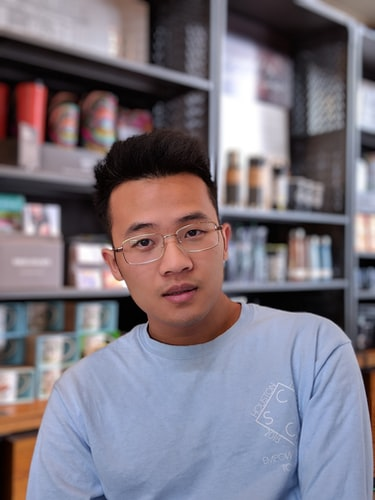
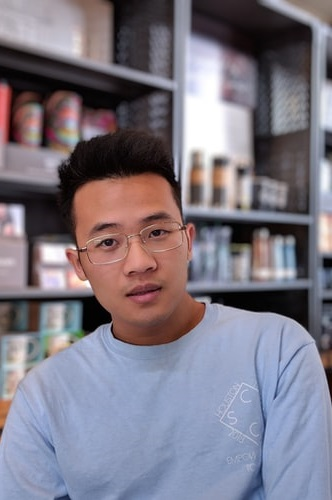
teamInformation photos size updated

diff --git a/src/components/SmallParts/TeamInformationCard/teamInformationCard.js b/src/components/SmallParts/TeamInformationCard/teamInformationCard.js
@@ -28,9 +28,9 @@ import './teamInformationCard.scss';
 * Images
 */
 
-import Photo1 from '../../../images/teamPhotos/brian-lundquist-VwU6dbcwn-E-unsplash.jpg';
+import Photo1 from '../../../images/teamPhotos/marcos-paulo-prado-Ur_QOF3mLyA-unsplash.jpg';
 import Photo2 from '../../../images/teamPhotos/christina-wocintechchat-com-CtL3eP9ENyA-unsplash.jpg';
-import Photo3 from '../../../images/teamPhotos/jake-nackos-IF9TK5Uy-KI-unsplash.jpg';
+import Photo3 from '../../../images/teamPhotos/vinicius-wiesehofer-LS1e59caoNM-unsplash.jpg';
 import Photo4 from '../../../images/teamPhotos/photo-1540569014015-19a7be504e3a.jpg';
 import Photo5 from '../../../images/teamPhotos/zoe-fernandez--zqoE7jnQgw-unsplash.jpg';
 
@@ -56,16 +56,33 @@ export const TeamInformationCard = (props) => {
     * Methods
     */
 
-    const handleMouseEnter = () => {
-        setIsHovering(true);
-    }
+    // const handleMouseEnter = () => {
+    //     setIsHovering(true);
+    // }
 
-    const handleMouseLeave = () => {
-        setIsHovering(false);
-    }
+    // const handleMouseLeave = () => {
+    //     setIsHovering(false);
+    // }
 
-    const arrowOnClick = (path) => {
-        props.history.push(props.match.url + (path === "" ? path : `/${path}`))
+    // const arrowOnClick = (path) => {
+    //     props.history.push(props.match.url + (path === "" ? path : `/${path}`))
+    // }
+
+    const loadPhoto = (img) => {
+        switch(img){
+            case 'Photo1':
+                return Photo1; 
+            case 'Photo2':
+                return Photo2; 
+            case 'Photo3':
+                return Photo3; 
+            case 'Photo4':
+                return Photo4;
+            case 'Photo5':
+                return Photo5;
+            default:
+                return "";
+        }
     }
 
     /**
@@ -74,7 +91,9 @@ export const TeamInformationCard = (props) => {
 
     return(
         <div className="team-information-card">
-          
+            <div className="team-information-card-image">
+                <img src={loadPhoto(props.photo)}/>
+            </div>
         </div>
     );
 }

diff --git a/src/reducers/section3Reducer.js b/src/reducers/section3Reducer.js
@@ -67,40 +67,39 @@ const fetchTestimonialsFailur = (state, action) => {
 }
 
 const fetchTeamInformationBegin = (state, action) => {
-    let updatedOurProcess = {
-        ...state.pictureBoard, 
+    let updateTeamInformationoard = {
+        ...state.teamInformation, 
         loading: true, 
         error: null
     }
 
     return {
         ...state,
-        ourProcess: updatedOurProcess
+        teamInformation: updateTeamInformationoard
     };
 }
 
 const fetchTeamInformationSuccess = (state, action) => {   
-    let updatedOurProcess = {
-        ...state.pictureBoard, 
+    let updateTeamInformationoard = {
+        ...state.teamInformation, 
         items: action.array,
         loading: false
     } 
     return {
         ...state,
-        ourProcess: updatedOurProcess
+        teamInformation: updateTeamInformationoard
     };
 }
 
 const fetchTeamInformationFailur = (state, action) => {
-    let updatedOurProcess = {
-        ...state.pictureBoard, 
+    let updateTeamInformationoard = {
         items: [],
         loading: false, 
         error: action.err
     }
     return {
         ...state,
-        ourProcess: updatedOurProcess
+        teamInformation: updateTeamInformationoard
     };
 }
 

diff --git a/src/setUpServer.js b/src/setUpServer.js
@@ -941,10 +941,10 @@ app.get('/api/section3/teamInformation', (req, res) => {
         },
         {
             id: 2,
-            name: "Brian Lundquist",
+            name: "Marcos Paulo",
             position: "UX Designer",
             photo: "Photo2",
-            path: "brian-lundquist-VwU6dbcwn-E-unsplash.jpg",
+            path: "marcos-paulo-prado-Ur_QOF3mLyA-unsplash.jpg",
             hover: false
         },
         {
@@ -952,7 +952,7 @@ app.get('/api/section3/teamInformation', (req, res) => {
             name: "Charlotte Lynn",
             position: "Developer",
             photo: "Photo3",
-            path: "jake-nackos-IF9TK5Uy-KI-unsplash.jpg",
+            path: "vinicius-wiesehofer-LS1e59caoNM-unsplash.jpg",
             hover: false
         },
         {

diff --git a/src/components/SmallParts/TeamInformationCard/teamInformationCard.scss b/src/components/SmallParts/TeamInformationCard/teamInformationCard.scss
@@ -1,3 +1,14 @@
 .team-information-card {
-    
+    width: 20%;
+    height: 334px;
+    .team-information-card-image {
+        width: 100%;
+        // height: 334px;
+        // border: 2px solid red;
+        >img {
+            width: 100%;
+            // height: 334px;
+            // object-fit: scale-down;
+        }
+    }
 }

diff --git a/src/components/Parts/TeamInformation/teamInformation.scss b/src/components/Parts/TeamInformation/teamInformation.scss
@@ -1,5 +1,9 @@
 .team-information {
-    height: 300px;
-    width:400px;
-    border: 2px solid red;
+    .team-information-items {
+        display: flex;
+        flex-wrap: wrap;
+        width: 100%;
+    }
+    // width:400px;
+    // border: 2px solid red;
 }
